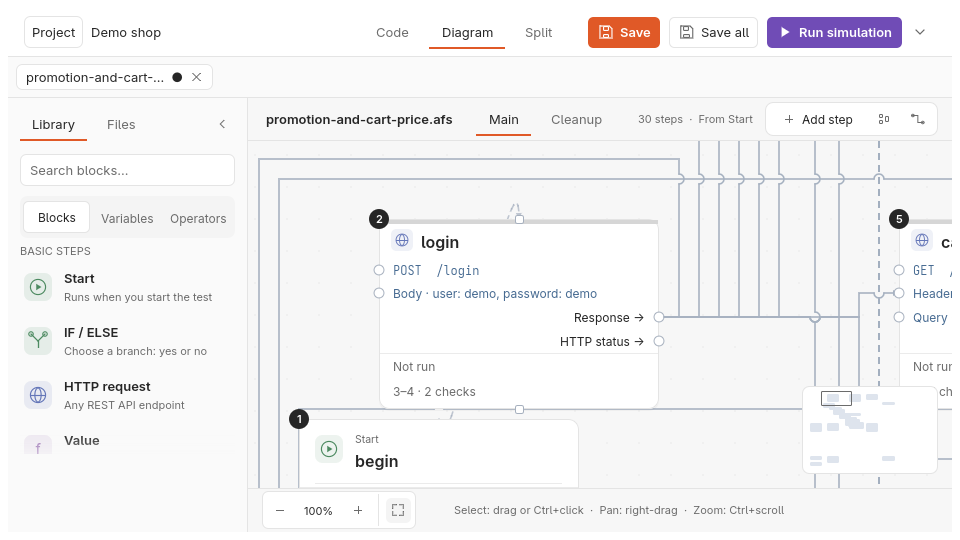
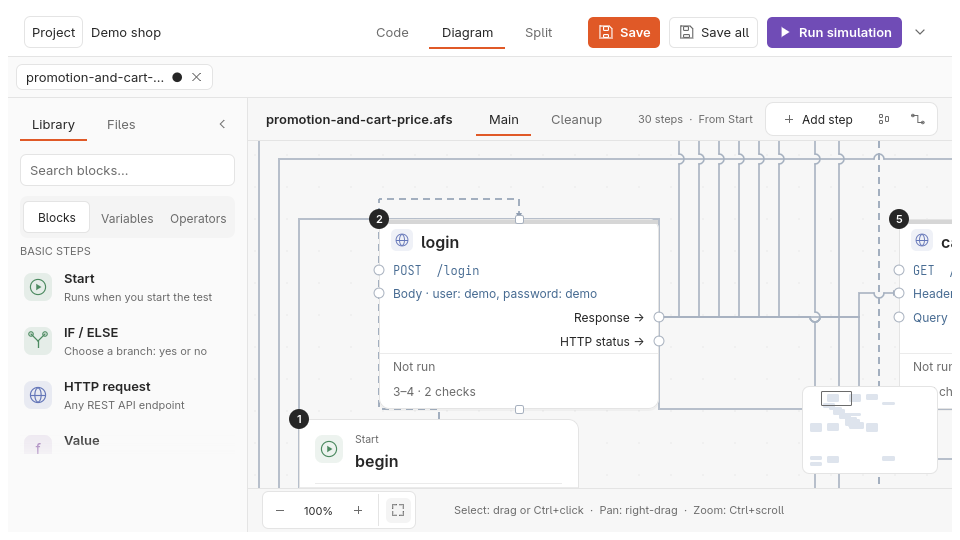
docs(tickets): LAY-29 the last attempt, captures after it
ADR 0006 records the last attempt and the widened exception; the ticket
its criteria and measures. The after captures are rendered again: begin
into login on piled shop-30 has a route round login.

diff --git a/docs/tickets/LAY-29.md b/docs/tickets/LAY-29.md
@@ -35,8 +35,11 @@ The analysis found two causes (both on #382):
 
 - Changed: where cards lie on each other, a line no longer passes under a
   card it joins. A port the other card lies over is left by a longer stub;
-  a line with no way round at all is drawn as the plain lighter corner of
-  an enclosed port (3 of 256 wires on generated piles).
+  two cards closer than a stub get a short stub between them and the line
+  goes round (the owner's review of the first captures: `begin` into
+  `login` must have a real route). Only a line with no way at all would be
+  drawn as the plain lighter corner of an enclosed port; none on the
+  generated piles.
 - Unchanged: a tidied board. No line ran under its own card there, and
   every reference board routes as before.
 - Removed or hidden, migrated, default behaviour, file format: nothing.
@@ -45,15 +48,18 @@ The analysis found two causes (both on #382):
 
 1. Router: a wire's own cards are in its way on every attempt. A port that
    lies inside the wire's other card is left through its stub, as one
-   inside a foreign card is (ADR 0006); on the generated piles no route
-   passes under a card it joins (71 of 256 wires before).
+   inside a foreign card is (ADR 0006); a port facing the other card
+   closer than a stub still gets a route. On the generated piles no route
+   passes under a card it joins (71 of 256 wires before) and every wire
+   has a route.
 2. On all 24 reference boards no piece of a line lies inside a card it
    joins (`under_own` is empty), every wire has a route, the gap of LAY-03
    holds (`packed` 0) and no line touches another card (`violations`
    empty). The limits of LAY-06 and LAY-28 are unchanged.
 3. The window: on `shop-30` and `fan-out`, tidied and with cards piled on
-   each other, no line is under a card it joins; tidied, every line has a
-   route and the gap holds; piled, at most one line in ten has none.
+   each other, no line is under a card it joins and every line has a
+   route (`begin` into `login` on `shop-30` included); tidied, the gap
+   holds.
 4. Review captures at 960 × 540 and 1600 × 1000 of a piled board, before
    and after, each asserting a card in view.
 5. The budget of ADR 0006 holds: full routing of its board within 150 ms.
@@ -61,17 +67,18 @@ The analysis found two causes (both on #382):
 ## Measured
 
 - Generated piles of cards (`generated_boards`): 71 of 256 wires ran under
-  a card they join; none now, and 3 have no route.
+  a card they join; none now, and every wire has a route (3 had none
+  before the last attempt was added).
 - The 24 reference boards: `under_own` empty before and after;
   `boards.txt` is unchanged, so crossings, bends and Fit are those of
   `main`.
 - In the window, `shop-30` with every wire and every third step piled on
   the others: 5 of 42 lines ran under a card they join (`begin` into
-  `login`, `order` into `receipt` and `refund`); none now. The line from
-  `begin` into `login`, which starts under `login` with no way round, has
-  no route and is drawn as the plain corner of an enclosed port.
-- The budget's board routes in 135 ms (133 ms with the router of `main` in
-  the same run, budget 150 ms).
+  `login`, `order` into `receipt` and `refund`); none now, and every line
+  has a route. The line from `begin` into `login` starts 12 px under
+  `login`: its stub stops between the two cards and it goes round.
+- The budget's board routes in 133 ms (133 ms with the router of `main`,
+  budget 150 ms).
 - Captures, before and after, `shop-30` piled with every wire:
   [Fit, 1600 × 1000](../qa/2026-11-17/LAY-29/before-piled-1600.png) →
   [after](../qa/2026-11-17/LAY-29/after-piled-1600.png);
@@ -93,7 +100,9 @@ The analysis found two causes (both on #382):
 - `apiforge-layout/src/route.rs`: the attempts that let a wire under its
   own cards are gone; `clear_stub` leaves the wire's other card when it
   lies over the port; `violations` counts that stub as the exception;
-  `under_own` is the measure. `canvas/` is unchanged.
+  a last attempt (`near_stub`) stops the stubs between cards closer than a
+  stub and lets the wire run inside a card over its port; `under_own` is
+  the measure. `canvas/` is unchanged.
 - ADR 0006 amended.
 - Tests: `crates/apiforge-layout/tests/lay29.rs`,
   `crates/apiforge-layout/tests/generated_boards.rs`

diff --git a/docs/decisions/0006-layout-and-wire-routing.md b/docs/decisions/0006-layout-and-wire-routing.md
@@ -252,21 +252,30 @@ unchanged.
 
 1. **A wire's own two cards are in its way on every attempt** of the
    search, at the clearance of the attempt. The last attempts, which let a
-   wire under a card it joins where nothing else was found, are gone: such
-   a wire has no route, is marked incomplete and drawn as the plain corner
-   of an enclosed port.
+   wire under a card it joins where nothing else was found, are gone.
 2. **A port inside the wire's other card** — cards lie on each other — is
    left through its stub, long enough to leave that card, exactly as a
    port inside a foreign card is. The guarantee's one exception covers
    both, and `violations` judges both the same.
+3. **A last attempt where a stub ends in the other card.** Two cards a
+   wire joins can face each other closer than a stub, or a third card can
+   bury both ports between them; the stub then ends inside the wire's
+   other card and no route can start. The last attempt, with no
+   clearance, stops each stub short of the cards left and halfway to the
+   other card when that card is nearer, and lets the wire run inside a
+   card that lies over one of its ports. A card over both ports may then
+   hold the whole route, a widening of the exception that `violations`
+   knows. Only a wire with no way at all has no route, is marked
+   incomplete and drawn as the plain corner of an enclosed port.
 
 `apiforge_layout::under_own` lists the wires with a piece inside a card
 they join, past such a stub: none on the 24 reference boards and on
 generated tidied boards, before and after, and none on the generated
-piles of cards, where 71 of 256 wires had one and 3 now have no route.
+piles of cards, where 71 of 256 wires had one; every wire there has a
+route. No wire of a tidied board reaches the last attempt.
 The reference boards route as before. **Cost:** none measurable; the
-budget's board routes in 135 ms (133 ms with the router of `main` in
-the same run, budget 150 ms).
+budget's board routes in 133 ms (133 ms with the router of `main`,
+budget 150 ms).
 
 ## As implemented
 
